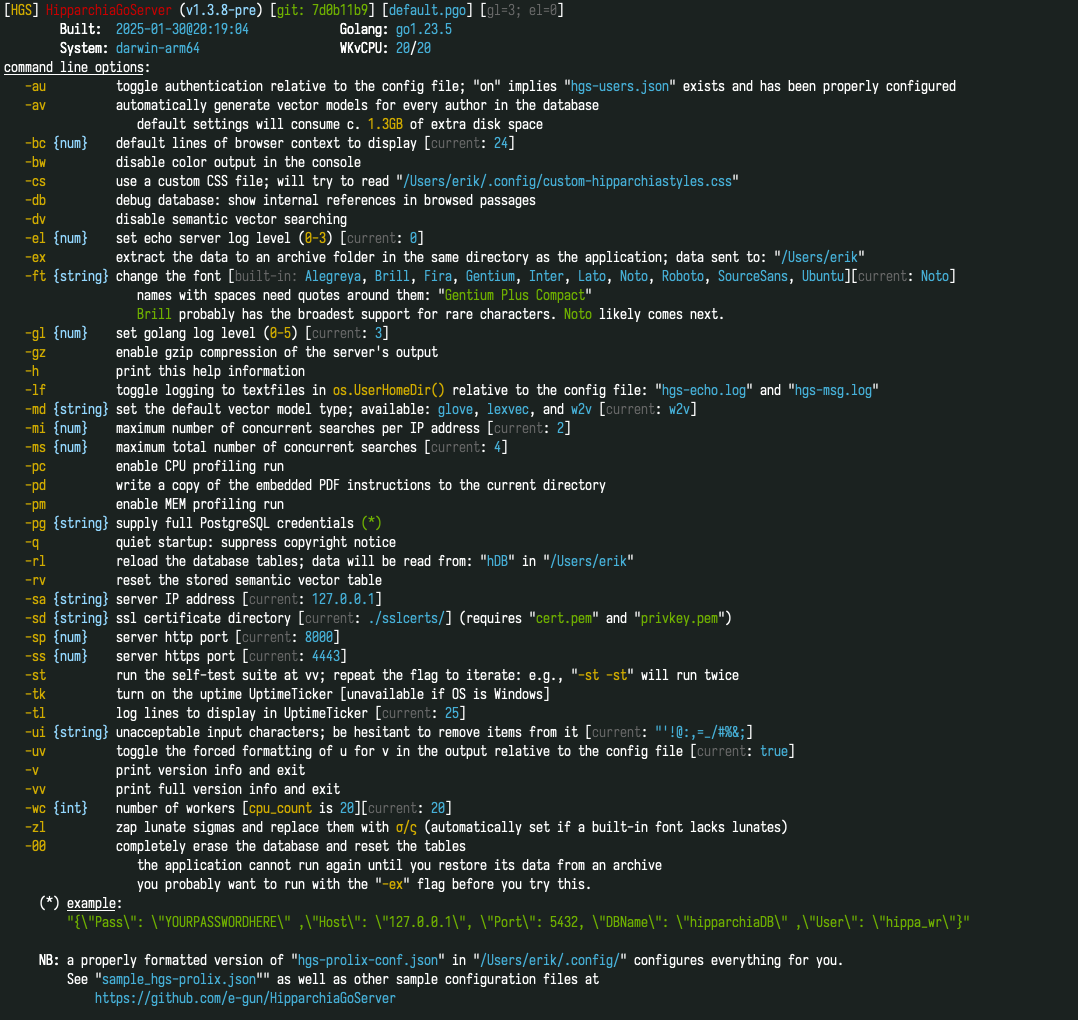
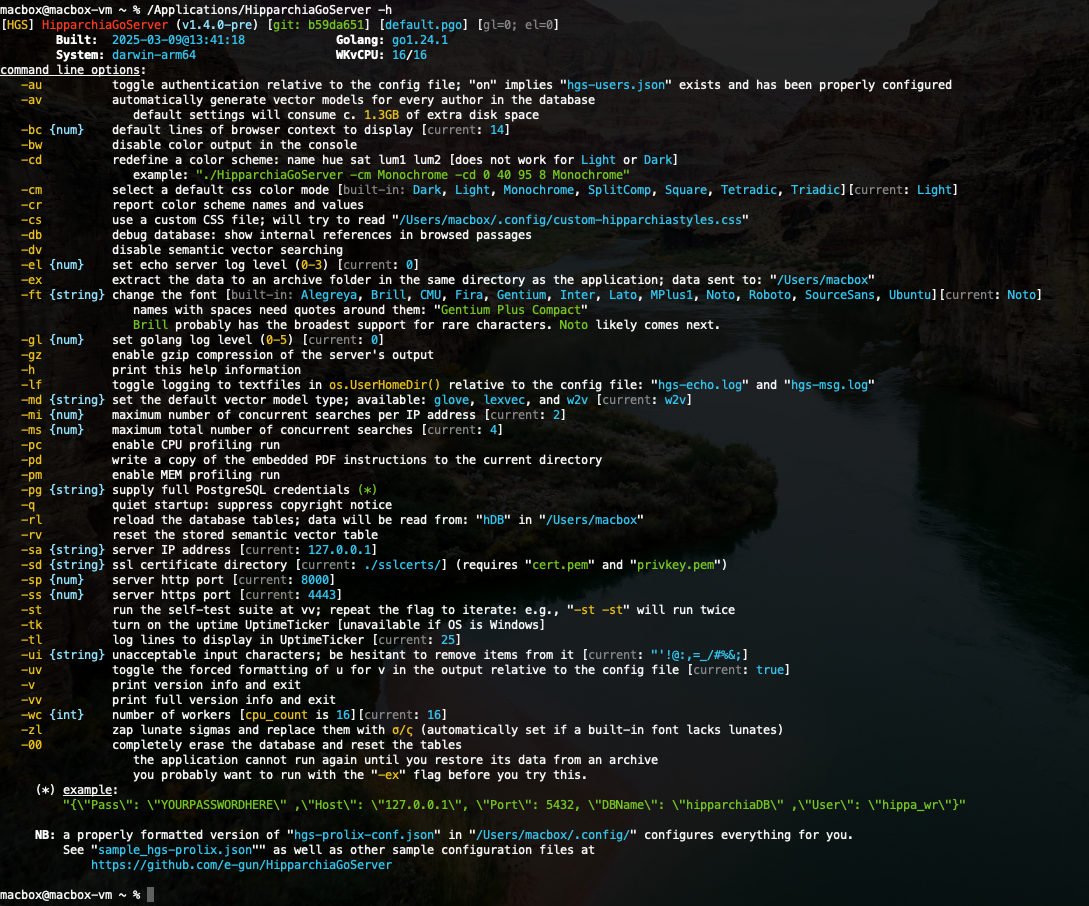
almost ready for release

diff --git a/internal/vv/terminalconst.go b/internal/vv/terminalconst.go
@@ -30,8 +30,8 @@ const (
                    default settings will consume c. C11.3GBC0 of extra disk space
    C1-bcC0 C2{num}C0    default lines of browser context to display [C6currentC0: C3{{.ctxlines}}C0]
    C1-bwC0          disable color output in the console
-   C1-cdC0          redefine a color scheme: name hue sat lum1 lum2; e.g. C4"-cd 220 15 95 0 Monochrome"C0 
-                   [does not work for C3LightC0 or C3DarkC0]
+   C1-cdC0          redefine a color scheme: name hue sat lum1 lum2 [does not work for C3LightC0 or C3DarkC0]
+                   example: C4"./HipparchiaGoServer -cm Monochrome -cd 0 40 95 8 Monochrome"C0
    C1-cmC0          select a default css color mode [C6built-in:C0 C3{{.knowncolors}}C0][C6currentC0: C3{{.defcol}}C0]
    C1-crC0          report color scheme names and values
    C1-csC0          use a custom CSS file; will try to read "C3{{.home}}{{.css}}C0"

diff --git a/internal/clr/thecolormodes.go b/internal/clr/thecolormodes.go
@@ -13,7 +13,7 @@ var (
 		"SplitComp":  {175, 12, 85, 10},
 		"Square":     {111, 25, 85, 15},
 		"Tetradic":   {40, 17, 80, 15},
-		"Triadic":    {230, 14, 18, 91},
+		"Triadic":    {235, 12, 18, 91},
 	}
 	CssColorModes = map[string]string{} // set in "main.go" after "configatlaunch.go"
 	CssSamples    = map[string]string{} // set in "main.go" after "configatlaunch.go"

diff --git a/web/rt-embhcss.go b/web/rt-embhcss.go
@@ -176,7 +176,7 @@ func PrintColorSamples(c echo.Context) error {
 
 	coll := strings.Join(knowncolors, "\n")
 
-	f, e := efs.ReadFile("emb/colorsamples.html")
+	f, e := efs.ReadFile("emb/htm/colorsamples.html")
 	Msg.EC(e)
 
 	colors := strings.Replace(string(f), SWAP, coll, -1)

diff --git a/web/rt-frontpage.go b/web/rt-frontpage.go
@@ -124,7 +124,7 @@ func RtFrontpage(c echo.Context) error {
 		"csscolordropdown": colorschemedropdownhtml(),
 	}
 
-	f, e := efs.ReadFile("emb/frontpage.html")
+	f, e := efs.ReadFile("emb/htm/frontpage.html")
 	Msg.EC(e)
 
 	tmpl, e := template.New("fp").Parse(string(f))

diff --git a/INSTRUCTIONS/fyi/README.md b/INSTRUCTIONS/fyi/README.md
@@ -174,18 +174,18 @@ self-test with vectors can be deceptive because `-wc` flag will not override con
 ```
 % cloc --exclude-dir=z --not-match-f="^jq*" .
      191 text files.
-     173 unique files.
-     283 files ignored.
+     173 unique files.                                          
+     286 files ignored.
 
-github.com/AlDanial/cloc v 2.04  T=0.16 s (1084.2 files/s, 208779.9 lines/s)
+github.com/AlDanial/cloc v 2.04  T=0.15 s (1188.7 files/s, 229376.9 lines/s)
 -------------------------------------------------------------------------------
 Language                     files          blank        comment           code
 -------------------------------------------------------------------------------
-Go                             103           3479           3824          16340
-CSS                             13            378            124           1686
+Go                             103           3487           3829          16353
+CSS                             13            384            127           1705
 JavaScript                       8            312            198           1583
 HTML                            13            169             18           1573
-Markdown                        11            468              0           1220
+Markdown                        11            476              0           1227
 Text                             6            108              0            487
 XML                              7              0              0            418
 JSON                             8              0              0            416
@@ -193,7 +193,7 @@ SVG                              1              1              1            392
 Bourne Shell                     2             19              7             76
 Python                           1              5              6              7
 -------------------------------------------------------------------------------
-SUM:                           173           4939           4178          24198
+SUM:                           173           4961           4186          24237
 -------------------------------------------------------------------------------
 
 ```

diff --git a/README.md b/README.md
@@ -20,6 +20,7 @@
 * embedded help files
 * variety of embedded fonts
 * selectable css color themes
+* tweakable css color themes (command line only)
 * semantic vectors 
   * general
     * configurable model parameters
